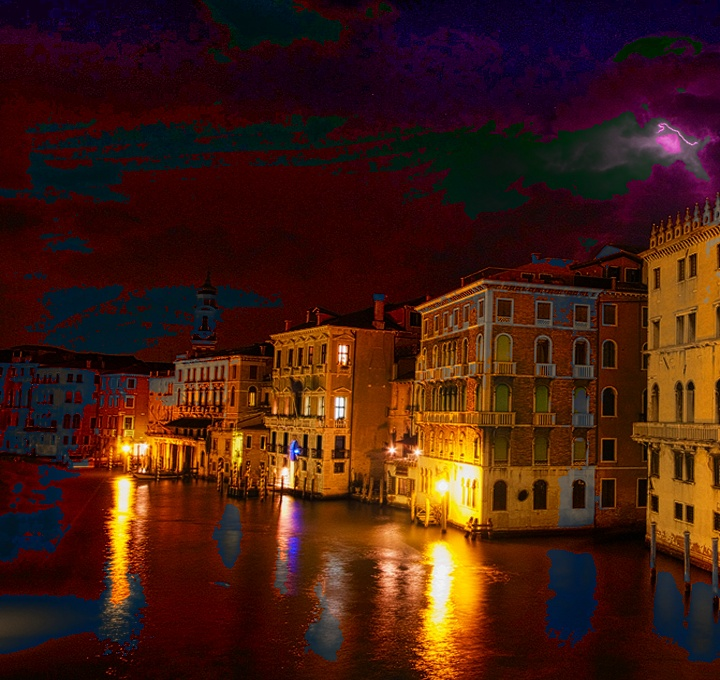
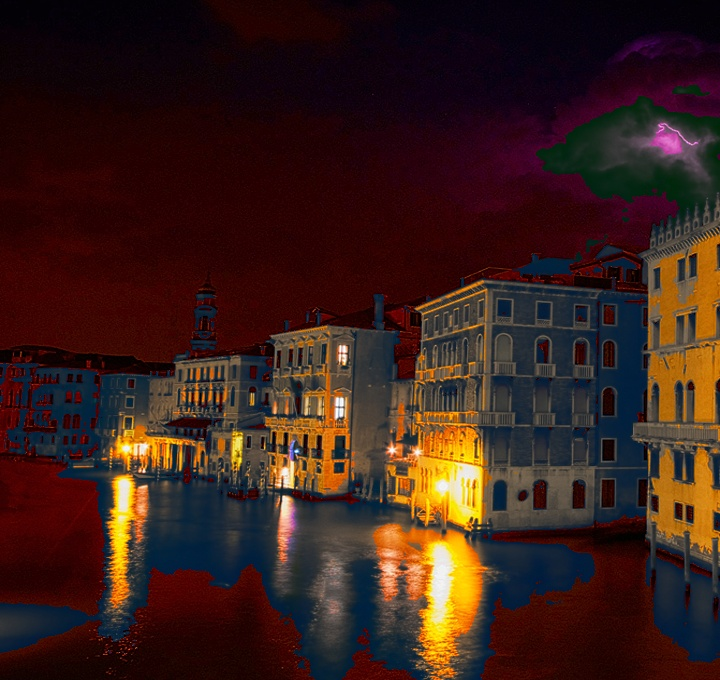
upgrade

diff --git a/demo.py b/demo.py
@@ -11,8 +11,8 @@ img_gray = cv2.cvtColor(ll_img, cv2.COLOR_BGR2GRAY)
 img_gray_bilateral = cv2.bilateralFilter(img_gray, 5, 21, 21)
 img_gray_bilateral[img_gray_bilateral==0]=1
 img_d = img_gray/img_gray_bilateral
-# img_eq_bg = cv2.equalizeHist(img_gray_bilateral)
-img_eq_bg = cv2.createCLAHE().apply(img_gray_bilateral)
+img_eq_bg = cv2.equalizeHist(img_gray_bilateral)
+# img_eq_bg = cv2.createCLAHE().apply(img_gray_bilateral)
 
 shift = img_eq_bg.astype(np.int8) - img_gray_bilateral.astype(np.int8)
 scale = shift/img_gray_bilateral
@@ -26,28 +26,29 @@ B_ = B*(1+u*scale) + alpha
 
 img_max = cv2.max(cv2.max(R,G), B)
 img_max = cv2.merge((img_max,img_max,img_max))
-# img_max[img_max>255] = 255
+img_max[img_max>255] = 255
 img_max[img_max<=0] = 1
 
 img_min = cv2.min(cv2.min(R,G), B)
 img_min = cv2.merge((img_min,img_min,img_min))
-# img_min[img_min>255] = 255
-# img_min[img_min<0] = 0
+img_min[img_min>255] = 255
+img_min[img_min<0] = 1
 
 img_rgb_nl = cv2.merge((B_, G_, R_))
 
-# RGB normalize
-img_rgb_nl[img_rgb_nl>255] = 255
-img_rgb_nl[img_rgb_nl<0] = 0
-# img_rgb_nl[img_rgb_nl>255.] = (255./img_max * img_rgb_nl)[img_rgb_nl>255.]
-# img_rgb_nl[img_rgb_nl<0.] = (img_max/(img_max-img_min)*(img_rgb_nl - img_min))[img_rgb_nl<0.]
+#   RGB normalize
 
+# img_rgb_nl[img_rgb_nl>255] = 255
+img_rgb_nl[img_rgb_nl<0] = 1
+img_rgb_nl[img_rgb_nl>255.] = (255./img_max * img_rgb_nl)[img_rgb_nl>255.]
 
-img_ycrcb = cv2.cvtColor(img_rgb_nl.astype(np.uint8), cv2.COLOR_BGR2YCR_CB)
-(Y, CR, CB) = cv2.split(img_ycrcb)
+img_max_min_sub = img_max-img_min
+img_max_min_sub[img_max_min_sub==0] = 1
+img_rgb_nl[img_rgb_nl<0.] = (img_max/img_max_min_sub*(img_rgb_nl - img_min))[img_rgb_nl<0.]
 
 output = (img_d - 1) * img_gray
 output = cv2.merge((output, output, output)) + img_rgb_nl
+
 output[output>255] = 255
 output[output<0] = 0
 output = output.astype(np.uint8)
@@ -61,11 +62,11 @@ cv2.imshow('Low-Light Image', ll_img)
 cv2.imshow('output', output)
 
 
-img_lab = cv2.cvtColor(ll_img, cv2.COLOR_BGR2LAB)
-(L, A, B) = cv2.split(img_lab)
-L = cv2.createCLAHE(clipLimit=2.0,).apply(L)
-clahe = cv2.cvtColor(cv2.merge((L, A, B)), cv2.COLOR_LAB2BGR)
-cv2.imshow('clahe', clahe)
+# img_lab = cv2.cvtColor(ll_img, cv2.COLOR_BGR2LAB)
+# (L, A, B) = cv2.split(img_lab)
+# L = cv2.createCLAHE(clipLimit=2.0,).apply(L)
+# clahe = cv2.cvtColor(cv2.merge((L, A, B)), cv2.COLOR_LAB2BGR)
+# cv2.imshow('clahe', clahe)
 
 cv2.imwrite('output.jpg', output)
 
